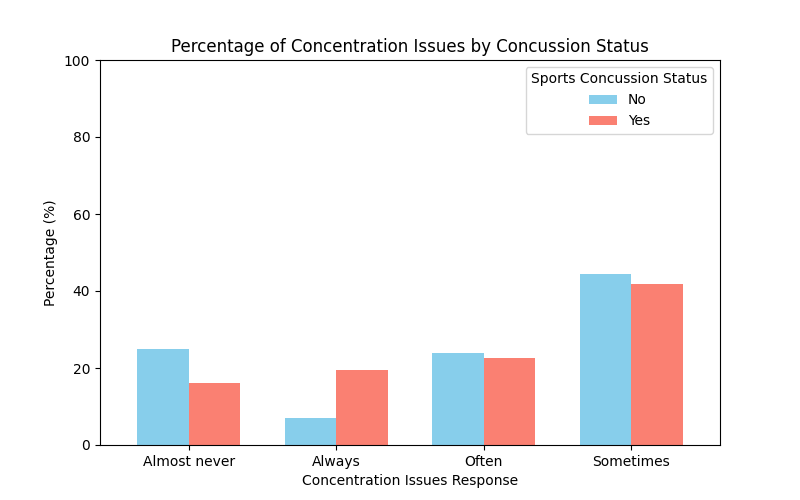
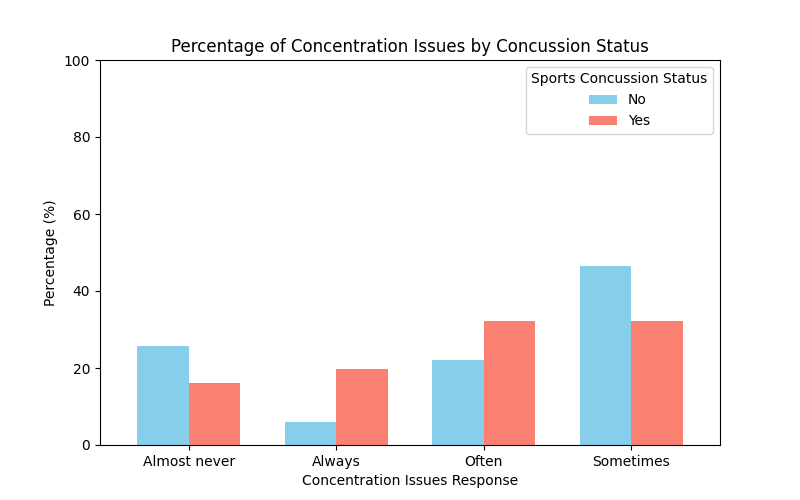
Fixed existing plots and added accuate titles. Added a few more frequnecy graphs and expanded concentration issue representations. More to come.

diff --git a/Visualizer.py b/Visualizer.py
@@ -27,11 +27,39 @@ def load_and_clean_data(file_path):
 def plot_sports_concussion_distribution(df):
     plt.figure(figsize=(6, 4))
     df['Sports_Concussion_Status'].value_counts().plot(kind='bar', color=['skyblue', 'salmon'])
-    plt.title("Frequency of Sports-Related Concussions")
+    plt.title("Frequency of Sports-Related Concussions (General Population)")
     plt.xlabel("Sports Concussion Status")
     plt.ylabel("Count")
     plt.xticks(rotation=0)
     plt.savefig("./Plots/sports_concussion_distribution.png")
+    plt.close()
+
+
+def plot_sports_concussion_distribution_for_athletes(df):
+    """Plots sports-related concussion distribution only for people who play sports."""
+    athletes_df = df[df['Sports_Status'].str.lower() == 'yes']
+    
+    plt.figure(figsize=(6, 4))
+    athletes_df['Sports_Concussion_Status'].value_counts().plot(kind='bar', color=['skyblue', 'salmon'])
+    plt.title("Frequency of Sports-Related Concussions Among Athletes")
+    plt.xlabel("Sports Concussion Status")
+    plt.ylabel("Count")
+    plt.xticks(rotation=0)
+    plt.savefig("./Plots/sports_concussion_distribution_athletes.png")
+    plt.close()
+
+
+def plot_concussion_distribution_for_non_athletes(df):
+    """Plots sports-related concussion distribution only for people who do not play sports."""
+    athletes_df = df[df['Sports_Status'].str.lower() == 'no']
+    
+    plt.figure(figsize=(6, 4))
+    athletes_df['Concussion_Status'].value_counts().plot(kind='bar', color=['skyblue', 'salmon'])
+    plt.title("Frequency of Concussions Among Non-Athletes")
+    plt.xlabel("Concussion Status")
+    plt.ylabel("Count")
+    plt.xticks(rotation=0)
+    plt.savefig("./Plots/sports_concussion_distribution_non_athletes.png")
     plt.close()
 
 
@@ -49,19 +77,23 @@ def plot_general_concussion_distribution(df):
 def plot_combined_concussion_distribution(df):
     plt.figure(figsize=(8, 5))
 
-    # Count values for both categories
+    athletes_df = df[df['Sports_Status'].str.lower() == 'yes']
+
+    # Count values for all categories
     sports_counts = df['Sports_Concussion_Status'].value_counts()
     general_counts = df['Concussion_Status'].value_counts()
+    athelete_counts = athletes_df['Sports_Concussion_Status'].value_counts()
 
     # Create a combined DataFrame for plotting
     combined_df = pd.DataFrame({
-        'Sports-Related Concussions': sports_counts,
-        'General Concussions': general_counts
+        'Sports-Related': sports_counts,
+        'General': general_counts,
+        'Among Athletes': athelete_counts
     }).T.fillna(0)
 
     # Plot
     combined_df.plot(kind='bar', color=['skyblue', 'salmon'], width=0.7)
-    plt.title("Comparison of Sports and General Concussions")
+    plt.title("Combined Concussion Distributions")
     plt.xlabel("Concussion Type")
     plt.ylabel("Count")
     plt.xticks(rotation=0)
@@ -82,7 +114,7 @@ def plot_sleep_distribution(df):
 
 def plot_avg_sleep_by_concussion_status(df):
     # Compute mean sleep hours per night for each concussion status
-    avg_sleep = df.groupby('Sports_Concussion_Status')['Sleep_Per_Night_Clean'].mean()
+    avg_sleep = df.groupby('Concussion_Status')['Sleep_Per_Night_Clean'].mean()
 
     # Plot bar chart
     plt.figure(figsize=(6, 4))
@@ -98,7 +130,7 @@ def plot_avg_sleep_by_concussion_status(df):
 
 def plot_concentration_issues_percentage(df):
     # Compute percentage distribution within each concussion status
-    concentration_percentage = pd.crosstab(df['Concentration_Issues'], df['Sports_Concussion_Status'], normalize='columns') * 100
+    concentration_percentage = pd.crosstab(df['Concentration_Issues'], df['Concussion_Status'], normalize='columns') * 100
 
     # Plot grouped bar chart
     concentration_percentage.plot(kind='bar', figsize=(8, 5), color=['skyblue', 'salmon'], width=0.7)
@@ -112,16 +144,56 @@ def plot_concentration_issues_percentage(df):
     plt.close()
 
 
+def plot_concentration_issues_for_athletes(df):
+    """Plots concentration issue percentages for athletes only, comparing those with and without a concussion."""
+    athletes_df = df[df['Sports_Status'].str.lower() == 'yes']
+    
+    concentration_percentage = pd.crosstab(athletes_df['Concentration_Issues'], athletes_df['Concussion_Status'], normalize='columns') * 100
+
+    plt.figure(figsize=(8, 5))
+    concentration_percentage.plot(kind='bar', color=['skyblue', 'salmon'], width=0.7)
+    plt.title("Concentration Issues for Athletes by Concussion Status")
+    plt.xlabel("Concentration Issues Response")
+    plt.ylabel("Percentage (%)")
+    plt.xticks(rotation=0, ha='right')
+    plt.ylim(0, 100)
+    plt.legend(title="Concussion Status")
+    plt.savefig("./Plots/concentration_issues_athletes.png")
+    plt.close()
+
+
+def plot_concentration_issues_for_non_athletes(df):
+    """Plots concentration issue percentages for non-athletes only, comparing those with and without a concussion."""
+    non_athletes_df = df[df['Sports_Status'].str.lower() == 'no']
+    
+    concentration_percentage = pd.crosstab(non_athletes_df['Concentration_Issues'], non_athletes_df['Concussion_Status'], normalize='columns') * 100
+
+    plt.figure(figsize=(8, 5))
+    concentration_percentage.plot(kind='bar', color=['skyblue', 'salmon'], width=0.7)
+    plt.title("Concentration Issues for Non-Athletes by Concussion Status")
+    plt.xlabel("Concentration Issues Response")
+    plt.ylabel("Percentage (%)")
+    plt.xticks(rotation=0, ha='right')
+    plt.ylim(0, 100)
+    plt.legend(title="Concussion Status")
+    plt.savefig("./Plots/concentration_issues_non_athletes.png")
+    plt.close()
+
+
 def main():
     file_path = "./Data/Labeled_survey_data.csv"
     df = load_and_clean_data(file_path)
 
-    plot_combined_concussion_distribution(df)
     plot_sports_concussion_distribution(df)
+    plot_sports_concussion_distribution_for_athletes(df)
+    plot_concussion_distribution_for_non_athletes(df)
     plot_general_concussion_distribution(df)
+    plot_combined_concussion_distribution(df)
     plot_sleep_distribution(df)
     plot_avg_sleep_by_concussion_status(df)
     plot_concentration_issues_percentage(df)
+    plot_concentration_issues_for_athletes(df)
+    plot_concentration_issues_for_non_athletes(df)
 
 
 if __name__ == "__main__":
